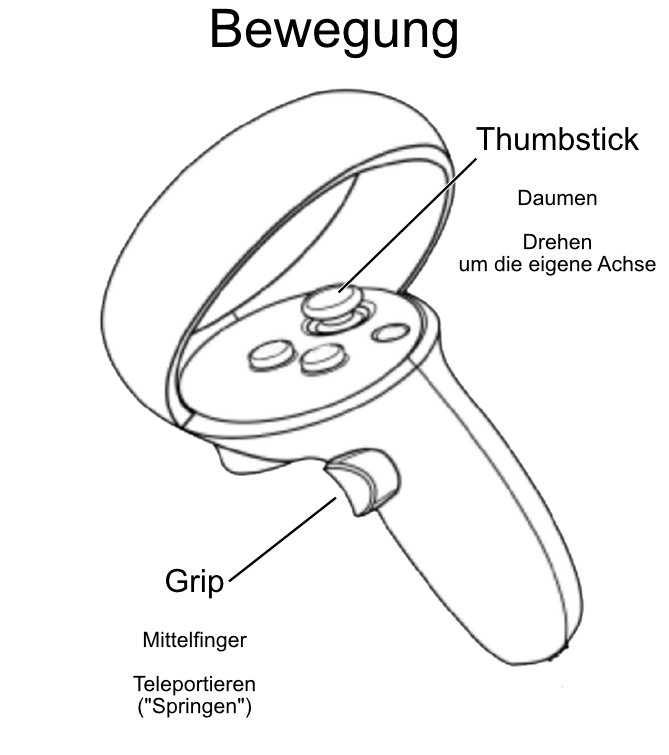
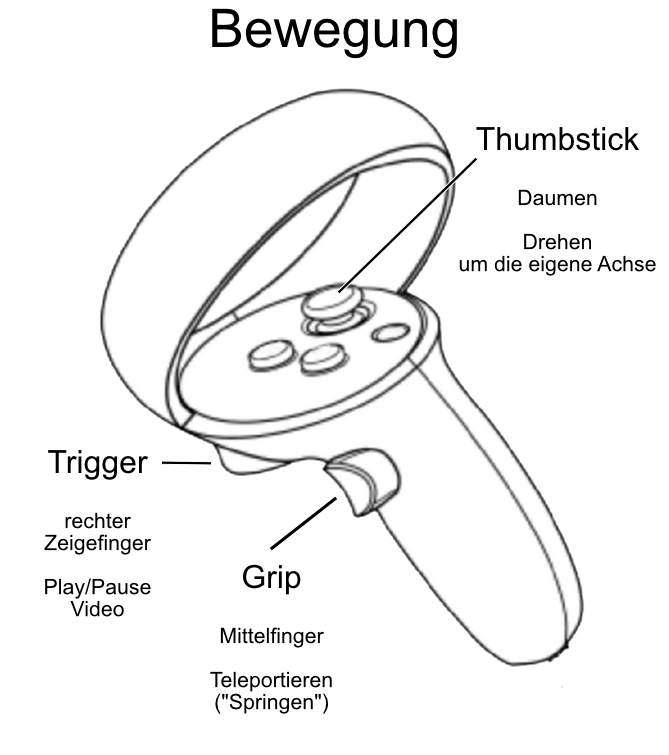
Navigation überarbeitet
Navigationsfolien gerade gezogen
Video "An die Spielregeln halten" ersetzt
moreInfo öffnet sich nur, wenn Infos hinterlegt sind
linker Trigger in Galerie blättert nur weiter, wenn das Menü geöffnet ist

diff --git a/Assets/Gallery Assets/Scripts/SetPoetryTxt.cs b/Assets/Gallery Assets/Scripts/SetPoetryTxt.cs
@@ -13,6 +13,7 @@ namespace VR_gallery
         //Text from poetry slam that the video is translating into a story
         public GameObject txtPoetrySnipplet;
         [SerializeField] string txt_currentVideo;
+        [SerializeField] GameObject iconHasMoreInfo;
 
         [Space(20)]
 
@@ -20,15 +21,20 @@ namespace VR_gallery
         public GameObject txtMoreInfo;
         [SerializeField] string txt_currentUIinfo;
         [SerializeField] bool hasMoreInfo;
-        public static bool videoHasMoreInfo;
+        //public bool HasMoreInfo {get { return hasMoreInfo; } }
 
-        private void Start()
-        {
-            videoHasMoreInfo = hasMoreInfo;
-        }
 
         private void OnTriggerEnter(Collider other)
         {
+            if (hasMoreInfo)
+            {
+                iconHasMoreInfo.SetActive(true);
+            }
+            else
+            {
+                iconHasMoreInfo.SetActive(false);
+            }
+
             txtPoetrySnipplet.GetComponent<TextMeshProUGUI>().text = txt_currentVideo;
             txtMoreInfo.GetComponent<TextMeshProUGUI>().text = txt_currentUIinfo;
         }
